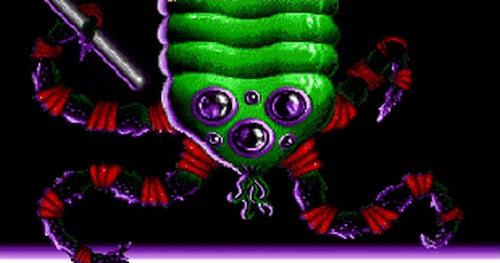
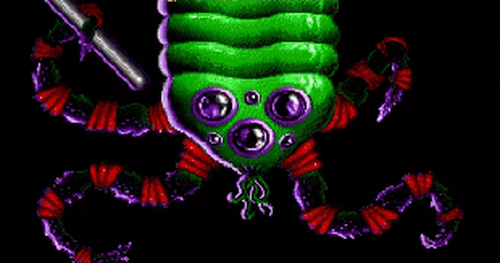
Hierarchy victory picture without the floor, and random victory verbs (#116)
* Hierarchy victory picture: paint out the floor glow

The purple-to-white floor along the bottom of Star Control 1's Hierarchy
victory picture is painted black; the tentacle crossing it is kept.

Claude-Session: https://claude.ai/code/session_01KbErnpYFJHhBuu2nHNUsvT

* Victory message: random verb from Star Control 1's list

Star Control 1 captions its victory screen "The <winner> <verb> the
<loser>" with one of 24 verbs; the message window now does the same,
using the game's own list from its TACTICS.PKG string table.

Claude-Session: https://claude.ai/code/session_01KbErnpYFJHhBuu2nHNUsvT

---------

Changed region(s): [[0.0, 0.9125, 1.0, 1.0]]

diff --git a/tools/make_hierarchy_victory.py b/tools/make_hierarchy_victory.py
@@ -4,8 +4,9 @@ Takes a screenshot of Star Control 1's Hierarchy victory screen (600x375, the
 320x200 game screen scaled 1.875 times) and keeps the picture: an Ur-Quan
 reaching out its tentacles. The grey bevelled frame and the caption box under
 it are cropped off (sc.victory_picture puts the caption in its message
-instead). Each 1.875x1.875 block is averaged back to one
-pixel, giving the 310x163 picture at the game's own resolution, which is then
+instead), and the purple-to-white floor glow along the bottom is painted
+black, keeping the tentacle in front of it. Each 1.875x1.875 block is
+averaged back to one pixel, giving the 310x163 picture at the game's own resolution, which is then
 blown up SCALE times with no smoothing, like the Alliance victory picture
 (tools/make_alliance_victory.py): Wesnoth's story screen scales its
 background to fit the screen, and at about its final size the pixels stay
@@ -21,17 +22,27 @@ Run from the repository root:
 import os
 import sys
 
+import numpy as np
 from PIL import Image
 
 OUT = "images/story/sc/hierarchy-victory.png"
 CROP = (9, 9, 591, 315)     # left, top, right, bottom: inside the grey frame
 SIZE = (310, 163)           # the picture at the game's own resolution
 SCALE = 6                   # 310x163 -> 1860x978, about 1080p
+FLOOR = 146                 # first row of the purple-to-white floor glow
+FLOOR_MATCH = 50            # how close (summed RGB) a pixel is to its row's floor
 
 
 def main(shot):
     pic = Image.open(shot).convert("RGB").crop(CROP)
     pic = pic.resize(SIZE, Image.BOX)
+    # Paint out the floor glow, keeping the tentacle that crosses it: the
+    # floor is one colour per row, so a pixel near its row's median is floor.
+    a = np.asarray(pic).astype(int)
+    for y in range(FLOOR, SIZE[1]):
+        floor = np.median(a[y], axis=0)
+        a[y][np.abs(a[y] - floor).sum(axis=1) < FLOOR_MATCH] = 0
+    pic = Image.fromarray(a.astype(np.uint8))
     pic = pic.resize((SIZE[0] * SCALE, SIZE[1] * SCALE), Image.NEAREST)
     os.makedirs(os.path.dirname(OUT), exist_ok=True)
     pic.save(OUT, optimize=True)
